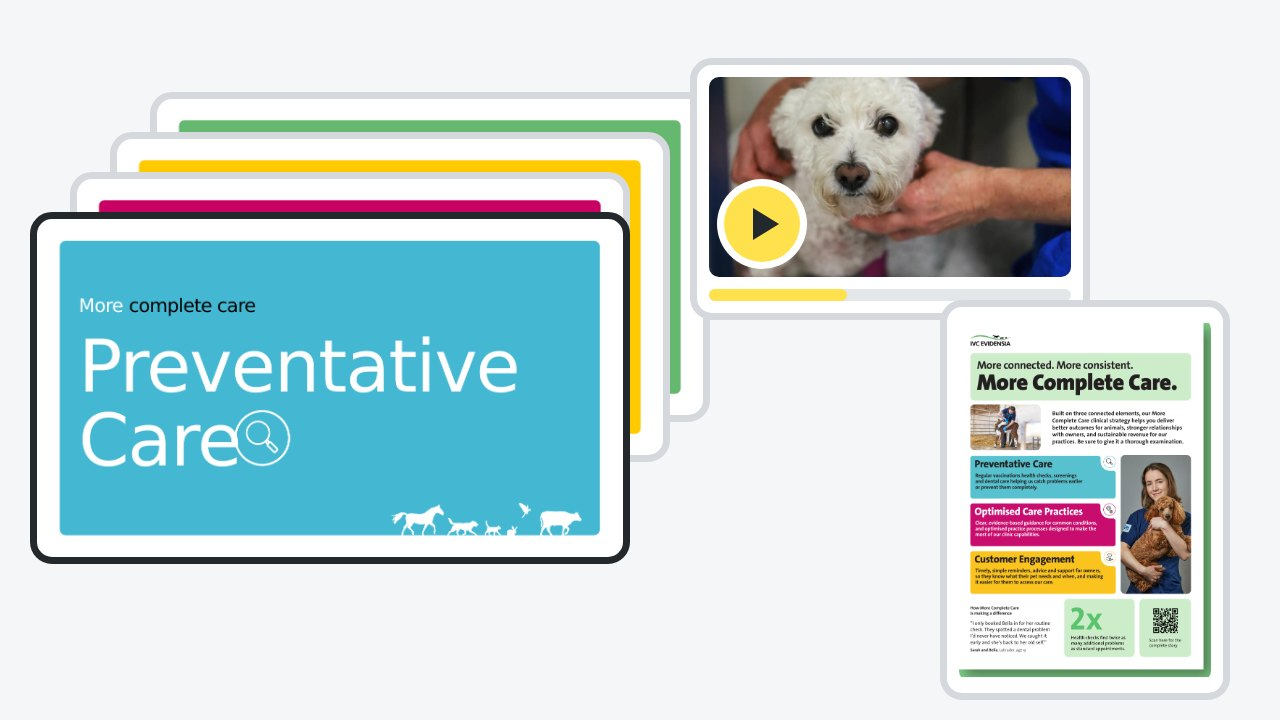
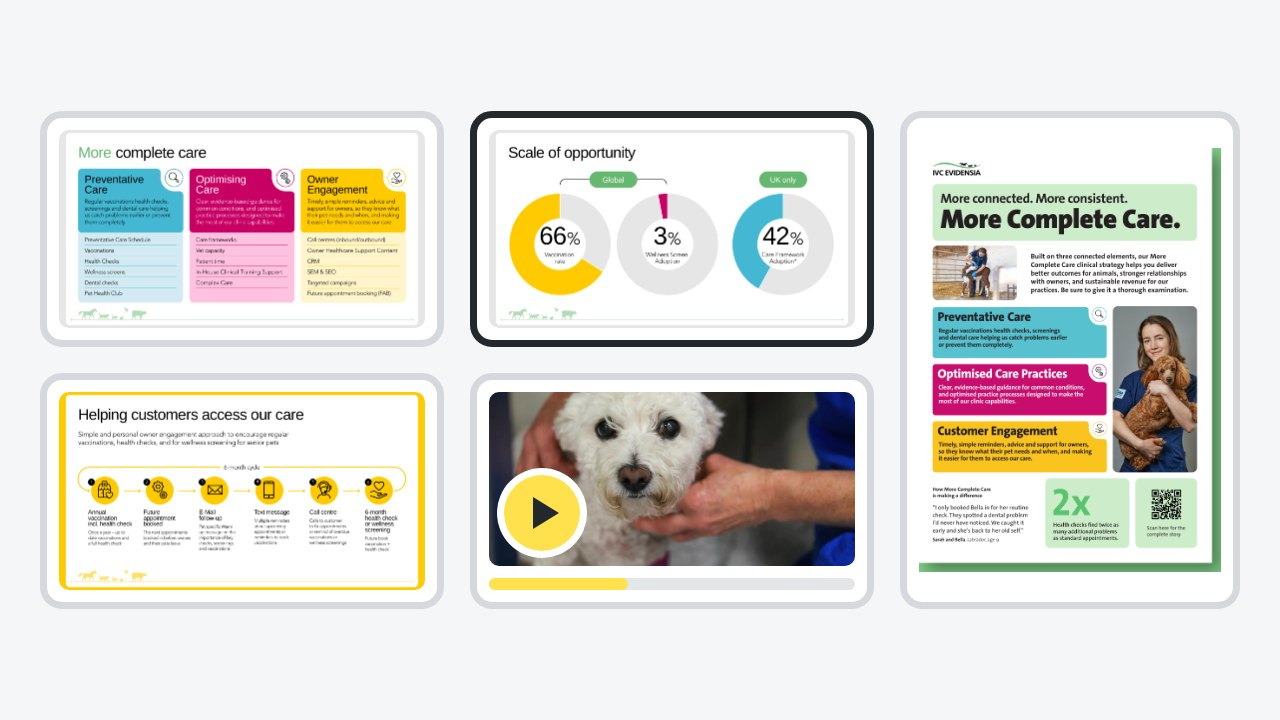
Show deck content, not title slides, in the work tiles
Clinical strategy and Digital 2.0 tiles now show content slides from
the exported PDFs, so the brand fonts render correctly.

Claude-Session: https://claude.ai/code/session_012RRpLgX7QEyLHZnkbuM586

diff --git a/index.html b/index.html
@@ -57,7 +57,7 @@
         <h2 class="reveal">Selected work</h2>
         <ul class="work-grid">
           <li class="tile reveal" style="--i: 0">
-            <div class="tile-media"><img src="assets/work/work-clinical-strategy.jpg" alt="Clinical strategy deck slides, launch film and practice poster" width="1280" height="720" loading="lazy"></div>
+            <div class="tile-media"><img src="assets/work/work-clinical-strategy.jpg" alt="Clinical strategy slides on the framework, scale of opportunity and owner journey, with the launch film and a practice poster" width="1280" height="720" loading="lazy"></div>
             <p class="tile-client">Global vet group</p>
             <h3>Rolling out a flagship clinical strategy</h3>
             <p class="tile-line">Films, decks and toolkits that took one clinical strategy to teams in 19 countries.</p>
@@ -121,7 +121,7 @@
             <p class="tile-tags">Campaign, Design</p>
           </li>
           <li class="tile reveal" style="--i: 2">
-            <div class="tile-media"><img src="assets/work/work-digital-transformation.jpg" alt="Digital 2.0 stakeholder deck slides and themes film" width="1280" height="720" loading="lazy"></div>
+            <div class="tile-media"><img src="assets/work/work-digital-transformation.jpg" alt="Digital 2.0 slides on success factors, audience insight and content drops, with the themes film" width="1280" height="720" loading="lazy"></div>
             <p class="tile-client">BT Group</p>
             <h3>Leading digital transformation comms</h3>
             <p class="tile-line">Internal comms for the COO of BT’s Digital unit, and leading a cross-functional transformation squad.</p>
